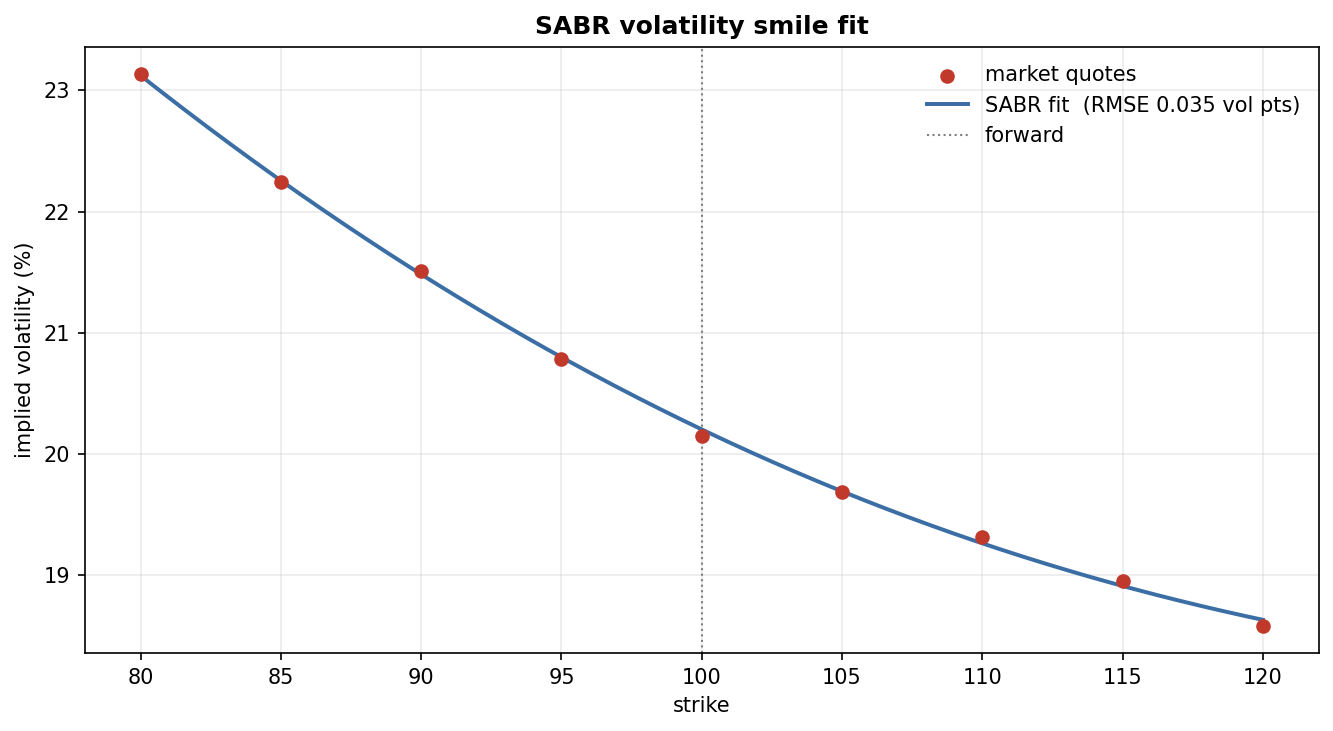
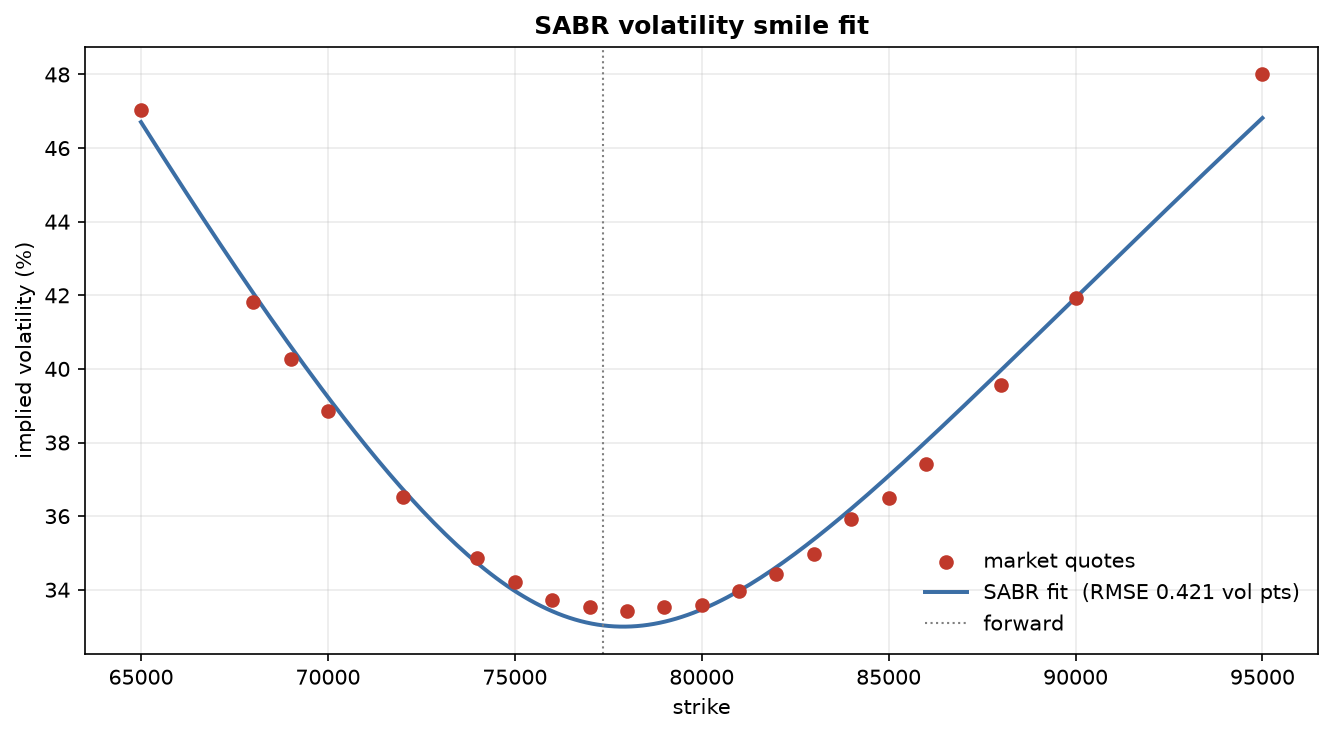
Scale the alpha bounds with the forward, and put the live fit in the README
The calibrator would not run on a real BTC smile. alpha carries units of
vol * F^(1-beta), and the seed was carefully made scale-invariant while the box
it has to sit inside was left at a hardcoded (1e-4, 5.0). With F = 77,372 and
beta = 0.5 the ATM seed is about 139, and scipy refused to start: "Initial guess
is outside of provided bounds". That bound was written for a rates forward near
0.04, where F^(1-beta) is about 0.2 and the mismatch never shows. Both ends of
the box now scale the same way the seed does, so the bounds mean "between 0.01%
and 500% ATM-equivalent vol" whatever the underlying is.

Once it runs the fit is good: RMSE 0.43 vol points across 21 strikes, worst case
1.2 at the 95,000 wing. The README only claimed this qualitatively; the numbers
are in it now, along with the synthetic recovery (alpha 2.0033 against 2.0, rho
-0.3047 against -0.30, nu 0.3918 against 0.40, RMSE 0.035 vol points, which is
the injected noise floor). The README's existing "< 0.04 vol points" claim for
the synthetic case checks out.

Three regression tests: a crypto-scale forward, a rates-scale forward, and a
non-positive forward, which now raises instead of producing a complex bound.

diff --git a/tests/test_calibration.py b/tests/test_calibration.py
@@ -84,3 +84,41 @@ def test_expiry_codes_parse_in_utc_and_ignore_locale():
     import pytest
     with pytest.raises(ValueError):
         _expiry_datetime("27XXX25")
+
+
+def test_alpha_bounds_scale_with_the_forward():
+    """alpha carries units of vol * F^(1-beta), so its box has to scale with F.
+
+    Only the seed did. On a BTC smile (F ~ 77,000, beta 0.5) the ATM seed is ~139
+    against a hardcoded upper bound of 5.0, and scipy refused to start:
+    "Initial guess is outside of provided bounds". The bound was written for a
+    rates forward near 0.04, where F^(1-beta) is about 0.2 and it never bites.
+    """
+    F_btc = 77_000.0
+    strikes = F_btc * np.array([0.85, 0.9, 0.95, 1.0, 1.05, 1.1, 1.15])
+    true_alpha = 0.35 * F_btc ** 0.5          # 35% ATM vol in alpha units
+    vols = smile(F_btc, strikes, 0.25, true_alpha, 0.5, -0.1, 1.2)
+
+    fit = calibrate(F_btc, strikes, vols, 0.25, beta=0.5)
+    assert fit["rmse"] < 1e-3
+    assert abs(fit["alpha"] - true_alpha) / true_alpha < 0.05
+
+
+def test_rates_scale_smile_still_calibrates():
+    """The other end of the scale: a 4% forward, where alpha is O(0.2)."""
+    F_rate = 0.04
+    strikes = F_rate + np.array([-0.01, -0.005, 0.0, 0.005, 0.01])
+    true_alpha = 0.30 * F_rate ** 0.5
+    vols = smile(F_rate, strikes, 2.0, true_alpha, 0.5, -0.2, 0.5)
+    fit = calibrate(F_rate, strikes, vols, 2.0, beta=0.5)
+    assert fit["rmse"] < 1e-3
+    assert abs(fit["alpha"] - true_alpha) / true_alpha < 0.05
+
+
+def test_non_positive_forward_is_rejected():
+    try:
+        calibrate(0.0, STRIKES, _market_smile(), T, beta=0.5)
+    except ValueError as e:
+        assert "forward must be positive" in str(e)
+    else:
+        raise AssertionError("expected a ValueError on a zero forward")

diff --git a/src/sabr/calibration.py b/src/sabr/calibration.py
@@ -19,18 +19,30 @@ def calibrate(F: float, strikes, market_vols, T: float, beta: float = 0.5,
     strikes = np.asarray(strikes, dtype=float)
     market_vols = np.asarray(market_vols, dtype=float)
 
+    if F <= 0:
+        raise ValueError(f"forward must be positive, got {F}")
+
+    # alpha carries units of vol * F^(1-beta), so both the seed and the box it has
+    # to sit inside scale with the forward. Only the seed did. On a BTC smile with
+    # F = 77,334 and beta = 0.5 the seed is ~139 against a hardcoded upper bound of
+    # 5.0, and scipy refused the fit outright: "Initial guess is outside of
+    # provided bounds". That bound was written for a rates forward near 0.04, where
+    # F^(1-beta) is about 0.2 and the difference never shows.
+    scale = F ** (1.0 - beta)
+
     if x0 is None:
-        # Seed alpha from the ATM quote (alpha ~ vol * F^(1-beta)) so the fit is
-        # scale-invariant; start rho/nu neutral.
+        # Seed alpha from the ATM quote so the fit is scale-invariant; rho/nu neutral.
         atm = int(np.argmin(np.abs(strikes - F)))
-        x0 = (max(market_vols[atm] * F ** (1 - beta), 1e-3), -0.2, 0.3)
+        x0 = (max(market_vols[atm] * scale, 1e-3 * scale), -0.2, 0.3)
 
     def residuals(p):
         alpha, rho, nu = p
         return smile(F, strikes, T, alpha, beta, rho, nu) - market_vols
 
-    lower = (1e-4, -0.999, 1e-4)
-    upper = (5.0, 0.999, 5.0)
+    # Bounds in vol units: alpha between 0.01% and 500% ATM-equivalent vol.
+    lower = (1e-4 * scale, -0.999, 1e-4)
+    upper = (5.0 * scale, 0.999, 5.0)
+    x0 = tuple(float(np.clip(v, lo, hi)) for v, lo, hi in zip(x0, lower, upper))
     result = least_squares(residuals, x0, bounds=(lower, upper), xtol=1e-12, ftol=1e-12)
 
     alpha, rho, nu = result.x

diff --git a/README.md b/README.md
@@ -17,9 +17,25 @@ rates/FX/crypto smiles.
    initial `alpha` is seeded from the ATM quote so the fit is scale-invariant.
 4. **Plot** (`viz.py`) — market quotes vs the fitted smile, with the fit RMSE.
 
-On synthetic ground-truth data the calibrator recovers the parameters essentially
-exactly (RMSE < 0.04 vol points — see the tests); on the live Deribit smile it fits the
-real skew and curvature.
+**Synthetic ground truth** (F=100, T=1, true alpha/beta/rho/nu = 2.0/0.5/-0.30/0.40,
+with 30bp of quote noise injected):
+
+| parameter | true | recovered |
+|---|--:|--:|
+| alpha | 2.00 | 2.0033 |
+| rho | -0.300 | -0.3047 |
+| nu | 0.400 | 0.3918 |
+
+RMSE **0.035 vol points** — essentially the injected noise floor.
+
+**Live BTC smile** (Deribit, 18SEP26 expiry, F = 77,372, T = 0.042y, 21 strikes,
+beta fixed at 0.5): alpha 87.98, rho -0.007, nu 3.54, RMSE **0.43 vol points**. Worst
+strike is the 95,000 wing at 1.2 vol points; everything inside 0.88 – 1.16 moneyness
+fits to under 0.6. A near-zero rho with nu of 3.5 is the right shape for a two-week
+crypto smile: almost no skew, a lot of curvature.
+
+Reproduce both with `uv run pytest` and `uv run python scripts/run_calibration.py`
+(the live numbers move with the market; the shape does not).
 
 ## The math
 
